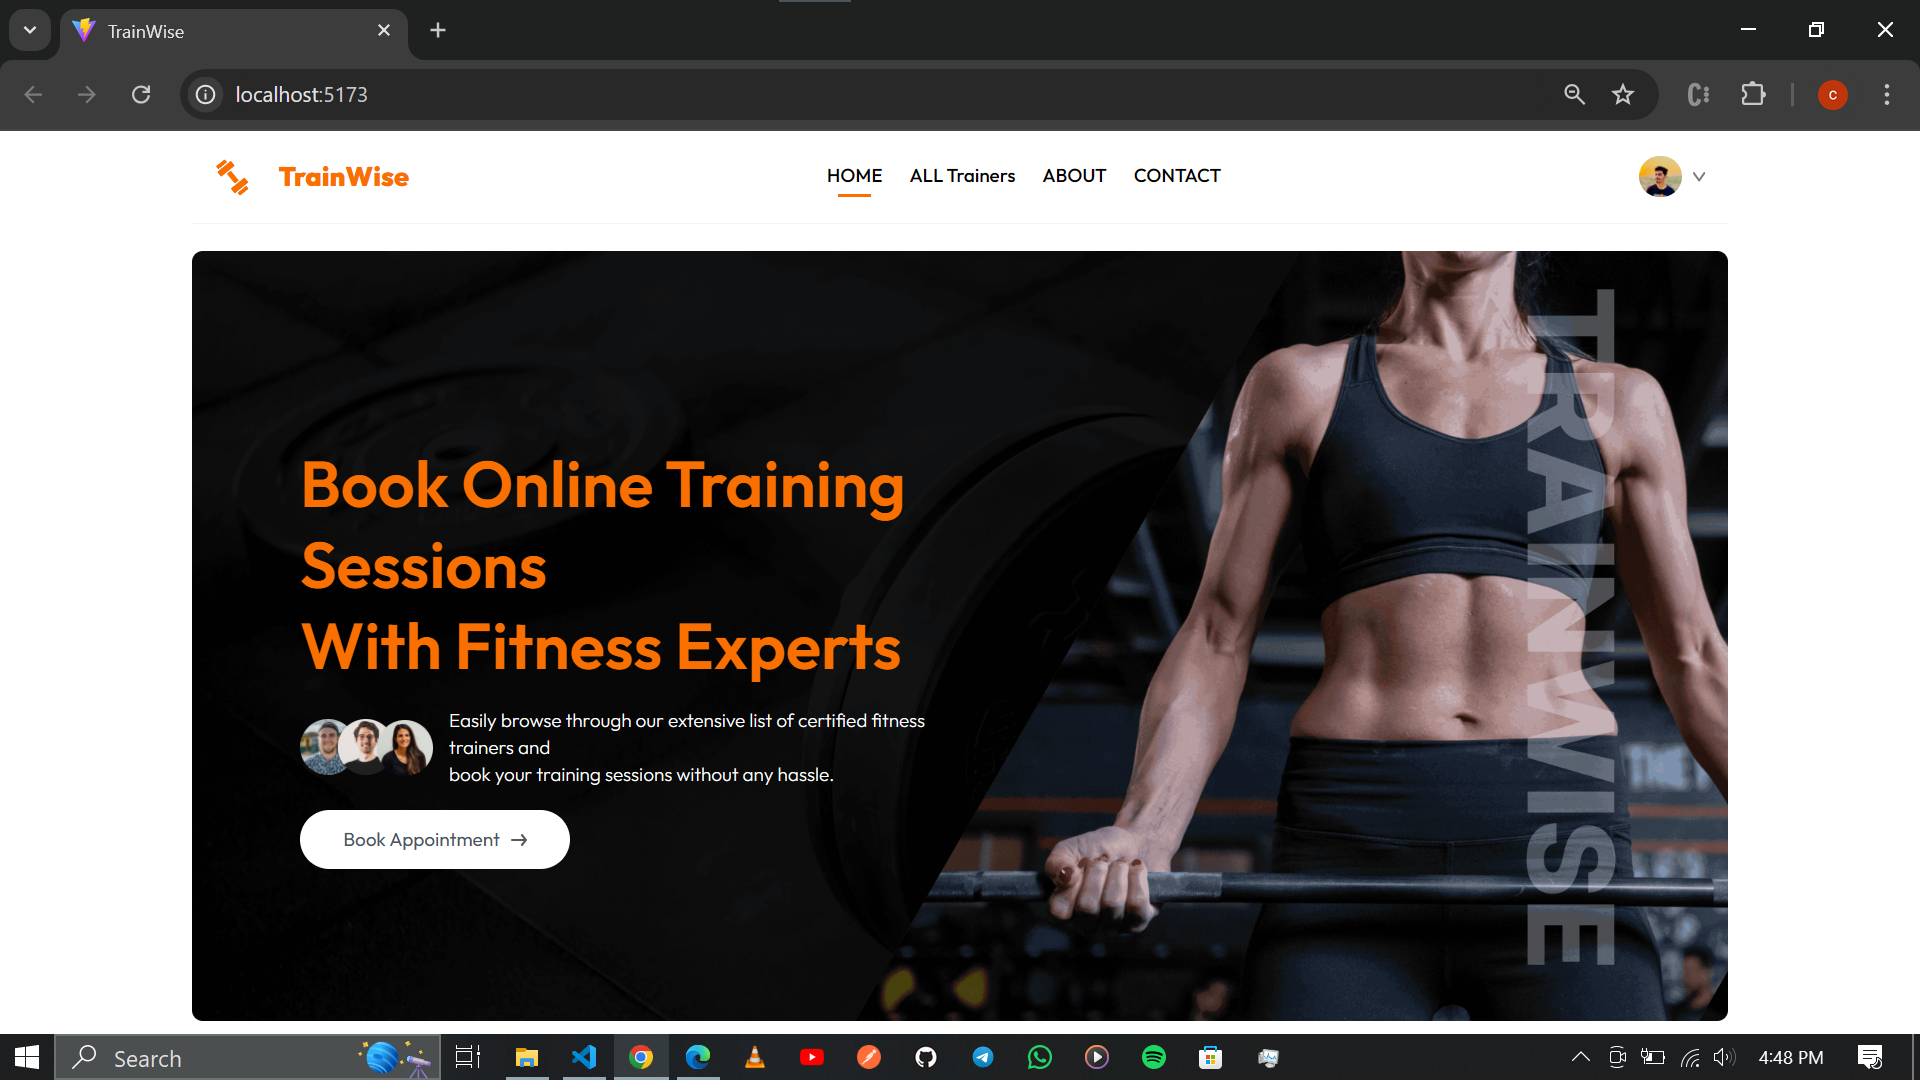
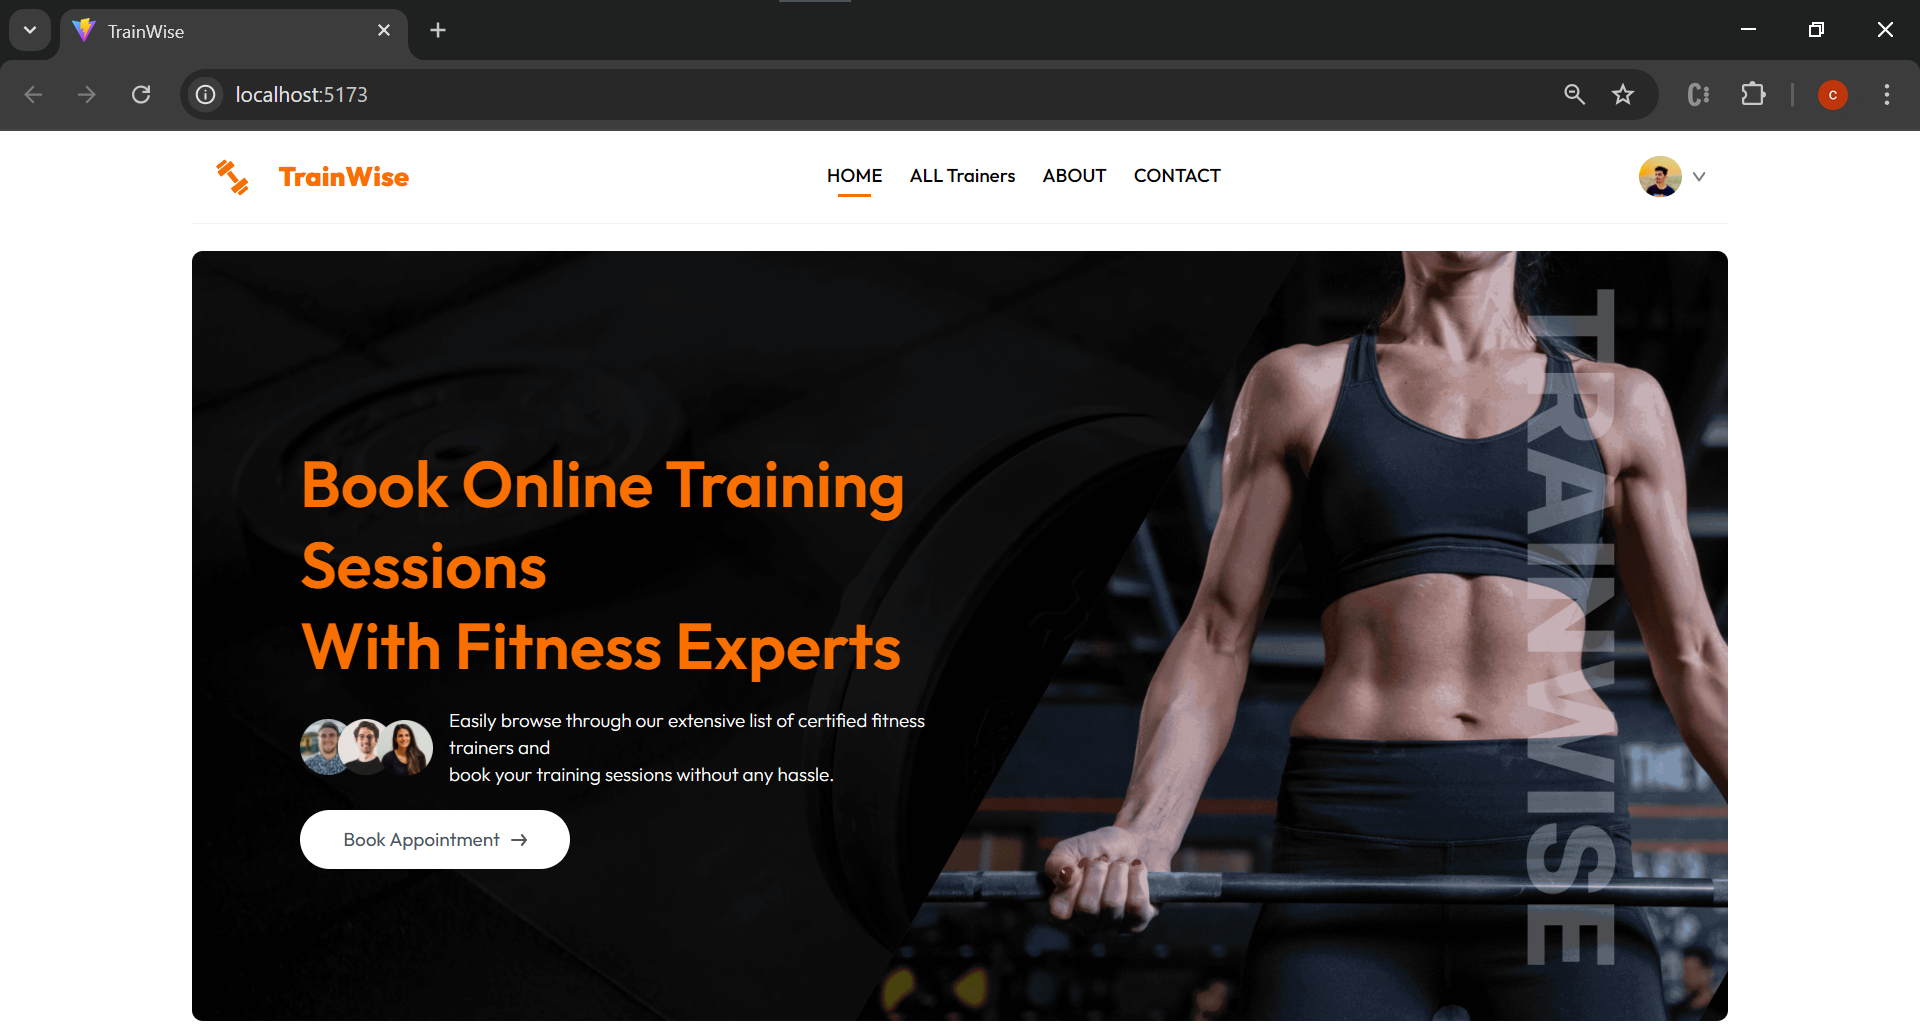
fix img sizes and content

diff --git a/portfolio_nextjs/src/app/page.js b/portfolio_nextjs/src/app/page.js
@@ -26,10 +26,10 @@ const projects = [
   },
   {
     id: 2,
-    title: "TrainWise - Fitness Trainer Appointment Booking Platform",
+    title: "TrainWise",
     image: "/trainwise thumbnail.png",
     description:
-      "TrainWise is a MERN stack-based fitness trainer booking platform that allows users to book appointments with personal trainers based on their availability and expertise.",
+      "TrainWise is a MERN stack-based fitness trainer appointment booking platform featuring user authentication, appointment booking, profile management, and online payments. It includes dashboards for users, trainers, and admins.",
     liveDemo: "https://train-wise-fitness-appointment-app-yzjx.vercel.app/",
     github: "https://github.com/ChaitanyaU17/TrainWise-fitness-appointment-app",
   },
@@ -38,7 +38,7 @@ const projects = [
     title: "Foodie Restaurant Management Website",
     image: "/foodie thumbnail.png",
     description:
-      "Foodie is a restaurant management system that enables users to browse restaurant menus, order food, and track deliveries in real time.",
+      "Foodie is a front-end clone of Swiggy built with React, Redux, and Tailwind CSS. It features API calls for fetching real-time menus, state management for cart operations, and a responsive UI for smooth navigation.",
     liveDemo: "https://shimmering-griffin-9ad94c.netlify.app/",
     github: "https://github.com/ChaitanyaU17/Foodie_Restaurant-App",
   },
@@ -47,7 +47,7 @@ const projects = [
     title: "Air-Aware Real-Time Weather Update",
     image: "/wheather thumbnail.png",
     description:
-      "Air-Aware is a real-time weather forecasting web application that provides weather details, air quality index, and climate trends.",
+      "Air-Aware is a real-time weather and AQI tracking app offering weather updates, pollution protection tips, and environmental health education. Built with React, it ensures accurate and timely information.",
     liveDemo: "https://reactjs-projects-gold.vercel.app/",
     github: "https://github.com/ChaitanyaU17/Reactjs-Projects",
   },
@@ -56,7 +56,7 @@ const projects = [
     title: "Result Management System",
     image: "/reusultmanagement thumbnail.png",
     description:
-      "A student result management system that enables administrators to upload student marks and allows students to check their results securely.",
+      "This MERN stack-based Result Management System simplifies student result tracking for educational institutions. Admins can upload and update results, while students can securely access their performance data.",
     liveDemo: "https://resultmanagement.netlify.app/",
     github:
       "https://github.com/ChaitanyaU17/Internship-Projects/tree/main/Result-Management",
@@ -66,7 +66,7 @@ const projects = [
     title: "Joblia - Job Listing Portal",
     image: "/job portal thumbnail.png",
     description:
-      "Joblia is a job listing portal where job seekers can explore job opportunities and apply directly, while recruiters can post job openings.",
+      "Joblia is a job portal connecting job seekers and recruiters. Users can search and apply for jobs, manage applications, and track their status. It includes authentication, filtering, and an employer dashboard.",
     liveDemo: "https://warm-churros-ee1a88.netlify.app/",
     github:
       "https://github.com/ChaitanyaU17/Internship-Projects/tree/main/Job-Listing-Portal",
@@ -76,7 +76,7 @@ const projects = [
     title: "Generics Ecommerce Website",
     image: "/ecommerce thumbnail.png",
     description:
-      "An eCommerce platform that allows users to browse products, add them to the cart, and complete purchases securely.",
+      "Generics is a React-based e-commerce app with Firebase authentication, dynamic routing, cart management, and profile features. It ensures secure user access and an optimized shopping experience.",
     liveDemo: "https://sharpner-frontend-react-gx86.vercel.app/user-auth",
     github:
       "https://github.com/ChaitanyaU17/Sharpner_Frontend_React/tree/main/EcommerceProject",
@@ -86,7 +86,7 @@ const projects = [
     title: "YouTube 2.0",
     image: "/youtube thumbnail.png",
     description:
-      "A YouTube clone built with React that allows users to search, watch videos, and explore trending content.",
+      "A YouTube clone built with React, Redux, and Tailwind CSS. It features dynamic search suggestions, live API fetching, real-time chat, and nested comments for an enhanced video streaming experience.",
     liveDemo: "https://youtube-clone-brown-psi.vercel.app/",
     github: "https://github.com/ChaitanyaU17/Youtube_2.0",
   },
@@ -103,7 +103,7 @@ export default function Home() {
   };
   return (
     <div className="min-h-screen bg-white dark:bg-black text-black dark:text-white transition-colors duration-300">
-      <div className="mx-auto max-w-4xl px-4 py-10 "> 
+      <div className="mx-auto max-w-4xl px-4 py-10 ">
         {/* py-20 */}
         <motion.header
           id="home"
@@ -172,7 +172,7 @@ export default function Home() {
               className="space-y-3"
             >
               <h2 className="text-lg font-semibold ">
-                Building Scalable Solutions for tomorrow
+                Crafting the Future, One Line of Code at a Time
               </h2>
               {/* <p className="text-gray-600 text-sm dark:text-gray-400 max-w-2xl ">
                 Expert in MERN Stack with{" "}
@@ -187,14 +187,18 @@ export default function Home() {
               </p> */}
 
               <p className="text-gray-600 text-sm dark:text-gray-400 max-w-2xl">
-                Passionate Web Developer dedicated to crafting seamless,
-                user-centric web applications with precision and innovation,
-                leveraging the MERN stack to deliver impactful solutions. <br />{" "}
-                As a full-stack developer, I&rsquo;ve had the privilege of working on
-                the user-facing aspects of projects. I&rsquo;m fueled by a deep
-                passion for problem-solving and thrive in collaborative
-                environments where I can transform ideas into visually appealing
-                and functional interfaces.
+                I’m a passionate and detail-oriented Full-Stack Web Developer
+                specializing in the MERN stack, dedicated to building scalable,
+                user-centric web applications that solve real-world problems.
+                With a strong foundation in both front-end and back-end
+                development, I thrive on turning complex ideas into intuitive,
+                functional, and visually stunning digital experiences.
+              </p>
+              <p className="space-y-1 text-gray-600 text-sm dark:text-gray-400 max-w-2xl">
+                Driven by a love for innovation and problem-solving, I excel in
+                collaborative environments where creativity meets technology. My
+                goal is to create solutions that not only meet user needs but
+                also push the boundaries of what’s possible in web development.
               </p>
             </motion.div>
 
@@ -205,7 +209,7 @@ export default function Home() {
               className="flex items-center gap-3"
             >
               <Button className="rounded-full bg-gradient-to-r from-rose-600 to-indigo-600 text-white transition-transform hover:scale-105">
-                <Link href="https://drive.google.com/file/d/1csDb2_4mwVPiBusDEx29j9siTpJAkWVK/view?usp=drive_link">
+                <Link href="https://drive.google.com/file/d/1csDb2_4mwVPiBusDEx29j9siTpJAkWVK/view?usp=sharing">
                   Resume
                 </Link>
               </Button>
@@ -268,21 +272,39 @@ export default function Home() {
                   </p>
                 </div>
               </div>
-              <p className="text-gray-600 dark:text-gray-400 text-sm">
-                I had the privilege of working with an incredible group of 7
-                interns, where we tackled two challenging projects:{" "}
-                <span className="text-black dark:text-white">
-                  a Job Listing Portal
-                </span>{" "}
-                and{" "}
-                <span className="text-black dark:text-white">
-                  a Result Management System
-                </span>{" "}
-                , both built with the MERN stack. We collaborated to plan our
-                approach, optimize functionalities, and enhance our applications
-                together. The journey was filled with learning, hands-on
-                experience, and fantastic support from our mentors, who were
-                always there to guide us through problem-solving sessions.
+              <p className="space-y-2 text-gray-600 dark:text-gray-400 text-sm">
+                <p>
+                  During my internship at Zidio Development, I collaborated with
+                  a talented team of 7 interns to develop two impactful
+                  projects:
+                </p>
+
+                <p>
+                  <span className="text-gray-100">• Job Listing Portal:</span>
+                  Job Listing Portal: A dynamic platform designed to connect job
+                  seekers with opportunities, built with the MERN stack.
+                </p>
+                <p>
+                  <span className="text-gray-100">
+                    • Result Management System:
+                  </span>{" "}
+                  A robust application streamlining academic result processing
+                  and management.
+                </p>
+                <p>
+                  This experience was a deep dive into team collaboration,
+                  problem-solving, and technical optimization. From planning and
+                  development to debugging and deployment, I gained hands-on
+                  experience in building scalable solutions while receiving
+                  invaluable mentorship from industry experts.
+                </p>
+                <p>
+                  Working on these projects not only honed my technical skills
+                  but also taught me the importance of clear communication,
+                  iterative improvement, and user-focused design. It was a
+                  rewarding journey that solidified my passion for creating
+                  impactful web applications.
+                </p>
               </p>
             </div>
           </motion.section>
